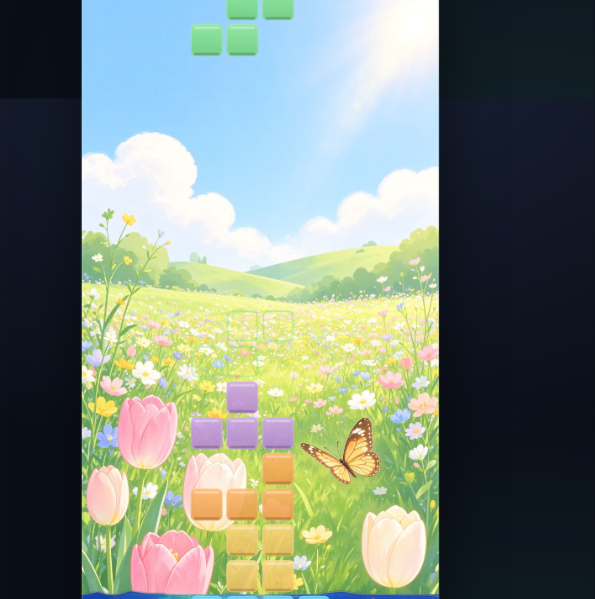
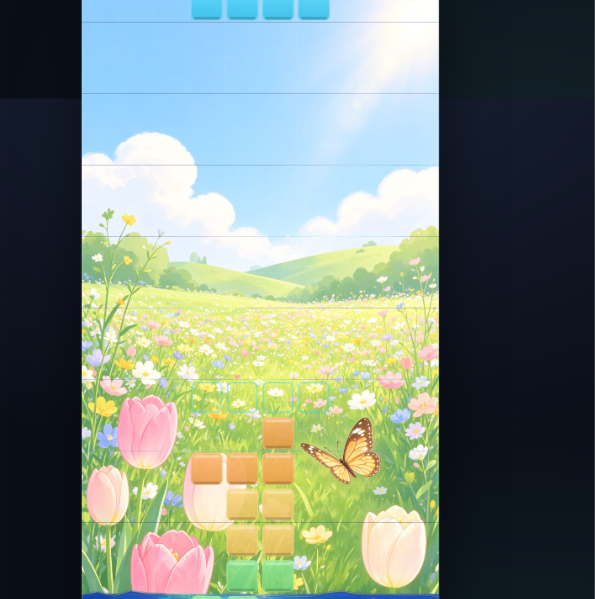
fix: 演示模式改为贪心AI主动消行，撕纸效果可实时看到 v1.0.1
问题：?demo 机器人随机落子几乎不消行，玩家看不到撕纸效果。
- 重写 demo 机器人：对每个方块模拟所有旋转/落点并评分（清行重奖，压低最高列/洞/起伏/总高），持续主动消行、逐层撕纸
- 修复 AI 评分指标：列高改为自顶向下的实心高度（原实现按底部空格计数，AI 无法区分高塔与空地，只会堆塔）
- 去掉开局预撕 3 行：从纯上层图开始，让撕纸真实发生在玩家眼前
- 更新效果截图

diff --git a/index.html b/index.html
@@ -985,31 +985,69 @@ stageEl.addEventListener('drop', (e) => {
   handleImageFile(files[0], leftHalf ? 'A' : 'B');
 });
 
-// ---------- 演示模式（?demo 自动演示，用于截图/预览） ----------
+// ---------- 演示模式（?demo 自动演示：贪心 AI 主动消行，持续展示撕纸） ----------
 let demoBot = null;
-function startDemo(){
-  // 先直接铺满底部三行并消除，展示撕纸效果
-  for (let r = ROWS-3; r < ROWS; r++) for (let c = 0; c < COLS; c++) grid[r][c] = TYPES[Math.floor(Math.random()*TYPES.length)];
-  const full = [];
-  for (let r = 0; r < ROWS; r++) if (grid[r].every(v => v)) full.push(r);
-  if (full.length){
-    const kept = grid.filter(r => !r.every(v => v));
-    const empty = Array.from({length: full.length}, () => Array(COLS).fill(null));
-    grid = [...empty, ...kept];
-    for (const r of full){ if (!revealed.has(r)){ revealed.add(r); tearing.push({row:r, t:0, dur:380}); spawnPaper(r); } }
-    lines += full.length; level = Math.floor(lines/10)+1;
+
+// 对当前方块评估最优（旋转, 列）：模拟落点并清行，最小化 最高列/洞/起伏，最大化清行
+function botPick(){
+  if (!piece) return null;
+  let best = null, bestSc = Infinity;
+  for (let rot = 0; rot < 4; rot++){
+    let shape = piece.shape;
+    for (let i = 0; i < rot; i++) shape = rotateShape(shape, 1);
+    const cells = shapeCells(shape);
+    let minX = Infinity, maxX = -Infinity;
+    for (const c of cells){ if (c.x < minX) minX = c.x; if (c.x > maxX) maxX = c.x; }
+    for (let px = -minX; px < COLS - maxX; px++){
+      let py = piece.y;
+      while (!collides(px, py + 1, shape)) py++;
+      if (py < 0) continue;
+      // 复制网格模拟落子 + 清行
+      let g = grid.map(row => row.slice());
+      for (const cl of cells){
+        const gy = py + cl.y;
+        if (gy < 0){ g = null; break; }
+        g[gy][px + cl.x] = piece.type;
+      }
+      if (!g) continue;
+      const kept = g.filter(row => !row.every(v => v));
+      const cleared = ROWS - kept.length;
+      const nn = Array.from({length: cleared}, () => Array(COLS).fill(null));
+      const gg = [...nn, ...kept];
+      // 评分：清行重奖，然后压低最高列 / 洞 / 起伏 / 总高（列高 = 自顶向下的实心高度）
+      const heights = Array(COLS).fill(0);
+      const tops = Array(COLS).fill(-1);
+      for (let c = 0; c < COLS; c++){
+        for (let rr = 0; rr < ROWS; rr++){
+          if (gg[rr][c]){ heights[c]++; if (tops[c] < 0) tops[c] = rr; }
+        }
+      }
+      let maxH = 0, sumH = 0, bump = 0, holes = 0;
+      for (let c = 0; c < COLS; c++){
+        if (heights[c] > maxH) maxH = heights[c];
+        sumH += heights[c];
+        if (c > 0) bump += Math.abs(heights[c] - heights[c-1]);
+        if (tops[c] >= 0) for (let rr = tops[c]; rr < ROWS; rr++) if (!gg[rr][c]) holes++;
+      }
+      const sc = -cleared * 1200 + maxH * 100 + holes * 70 + bump * 8 + sumH * 3;
+      if (sc < bestSc){ bestSc = sc; best = { rot, px }; }
+    }
   }
-  // 简单机器人持续落子
+  return best || { rot: 0, px: Math.floor(COLS / 2) };
+}
+
+function startDemo(){
+  // 不预撕：从纯上层图开始，由 AI 消行逐层撕开，效果最直观
   demoBot = setInterval(() => {
     if (over){ newGame(); return; }
     if (paused || !piece) return;
-    const wantRot = Math.floor(Math.random()*4);
-    for (let i = 0; i < wantRot; i++) rotate(1);
-    const target = Math.floor(Math.random()*COLS);
+    const pick = botPick();
+    if (!pick) return;
+    for (let i = piece.rot; i < pick.rot; i++){ if (!rotate(1)) break; }
     let guard = 0;
-    while (piece.x < target && guard++ < 12){ if(!move(1,0)) break; }
+    while (piece.x < pick.px && guard++ < 12){ if (!move(1, 0)) break; }
     guard = 0;
-    while (piece.x > target && guard++ < 12){ if(!move(-1,0)) break; }
+    while (piece.x > pick.px && guard++ < 12){ if (!move(-1, 0)) break; }
     hardDrop();
   }, 480);
 }

diff --git a/README.md b/README.md
@@ -18,7 +18,7 @@
 
 ```bash
 # 从 GitHub 安装（推荐 pin 一个 release tag，格式与生态一致）
-dsh plugin --profile web add github:tuifeibenfeifei/teartris#v1.0.0
+dsh plugin --profile web add github:tuifeibenfeifei/teartris#v1.0.1
 
 # 硬刷新浏览器（Ctrl/Cmd+Shift+R）后，右下角出现「T」悬浮按钮
 # 点击按钮打开游戏面板，也可以直接访问 http://<dsh-host>:<port>/teartris/
@@ -29,6 +29,8 @@ dsh plugin --profile web add github:tuifeibenfeifei/teartris#v1.0.0
 ## 直接玩（无需 DSH）
 
 把本仓库克隆下来（或只下载 `index.html` 和 `assets/`），**双击 `index.html`** 即可在浏览器里游玩，无需任何依赖。
+
+> 想看 AI 自动演示撕纸效果？打开 `index.html?demo` —— 内置贪心 AI 会主动消行，逐层撕开上层图。
 
 ## 自定义图片
 
